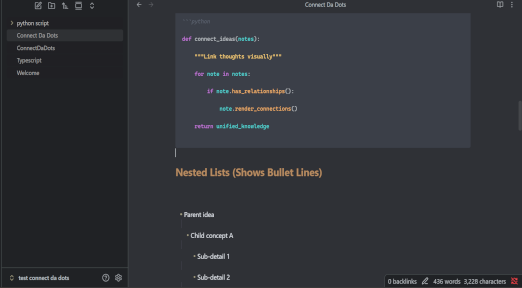
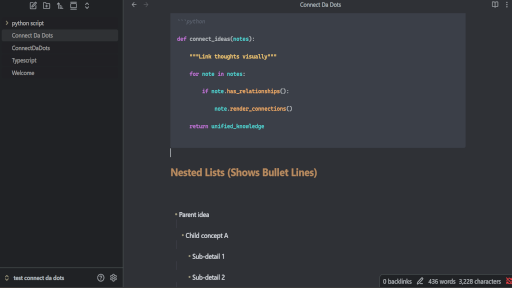
chore: prepare theme for community resubmission

diff --git a/theme.css b/theme.css
@@ -212,7 +212,7 @@ settings:
   --background-modifier-border: #92a1a17a;
   --blockquote-border: #6a7070;
   --text-accent: #ff9640ba;
-  --interactive-accent-rgb: #fe8019;
+  --interactive-accent-rgb: 254, 128, 25;
   --text-selection: #406488;
   
   /* 🔥 CUSTOM CODE BLOCK COLORS */
@@ -227,7 +227,7 @@ settings:
   --code-comment: #5c6370;
   --code-builtin: #ffb86c;
   --bullet-color: #bbc0c5;
-  --bullet-line-color: var(--bullet-line-color, rgba(100, 100, 120, 0.5));
+  --bullet-line-color: rgba(100, 100, 120, 0.5);
   /* 🔥 INLINE CODE VARIABLES */
   --inline-code-text-color: #e5dcba;
   --inline-code-bg-color: #44474E;
@@ -561,7 +561,7 @@ a:hover, .internal-link:hover {
 /* ===== CODE BLOCKS – LET OBSIDIAN HANDLE IT WITH OUR COLORS ===== */
 .markdown-rendered pre,
 .markdown-preview-view pre {
-  background-color: var(--code-background) !important;
+  background-color: var(--code-bg) !important;
   border: 1px solid var(--code-border) !important;
   border-radius: 8px !important;
   padding: 12px 16px !important;
@@ -569,8 +569,8 @@ a:hover, .internal-link:hover {
 
 .markdown-rendered pre code,
 .markdown-preview-view pre code {
-  color: var(--code-normal) !important;
-  font-size: var(--code-size) !important;
+  color: var(--code-text) !important;
+  line-height: 1.5;
 }
 
 /* ===== TABLES & IMAGES ===== */

diff --git a/README.md b/README.md
@@ -1,6 +1,8 @@
 # 🔗 Connect Da Dots — Dark Obsidian Theme
 
 > **See your notes connect.** Vertical bullet relationship lines. Glowing inline code. A dark theme that makes outlines actually readable.
+>
+> **Submission status:** resubmission prep is in progress for the Obsidian Community Themes directory.
 
 <div align="center">
   <img src="images/connectdadots.jpg" alt="Connect Da Dots Theme Banner" width="100%">
@@ -37,10 +39,10 @@ Most Obsidian themes treat lists as flat text. **Connect Da Dots** draws **verti
 
 ## 📦 Installation
 
-### From Obsidian Community Themes (coming soon)
+### From Obsidian Community Themes (after approval)
 1. Go to `Settings → Appearance → Themes → Manage`
 2. Search **"Connect Da Dots"**
-3. Click **Use** – done.
+3. Click **Use**.
 
 ### Manual install (for now)
 1. Download `theme.css` and `manifest.json`
@@ -65,7 +67,7 @@ Go to `Settings → Theme → Connect Da Dots` to tweak:
 | **Inline Code Colors** | Text + background, editor vs reading mode |
 | **Hover Glow** | Color + intensity (from subtle to WOW) |
 
-No `!important` hacking required. All variables are built into the theme.
+Most common colors and effects are exposed through built-in theme settings, so you can customize the theme without editing CSS.
 
 ---
 
@@ -116,7 +118,7 @@ I chose to ship this as a **v1.0** because it’s already useful for 90% of use 
 Found a bug? Open an issue.  
 Want to add light mode or better 4-level lines? PRs are welcome.
 
-**Repo:** [github.com/Kevork-Nexacrawl-dev/obsidian-connect-da-dots](https://github.com/Kevork-Nexacrawl-dev/obsidian-connect-da-dots)
+**Repo:** [github.com/Kevork-Nexacrawl-dev/obsidian-theme-Connect-Da-Dots](https://github.com/Kevork-Nexacrawl-dev/obsidian-theme-Connect-Da-Dots)
 
 ---
 

diff --git a/SUBMISSION.md b/SUBMISSION.md
@@ -1,0 +1,37 @@
+# Connect Da Dots — Obsidian Theme Submission
+
+Use this when opening the community theme PR in `obsidianmd/obsidian-releases`.
+
+## `community-css-themes.json` entry
+
+```json
+{
+  "name": "Connect Da Dots",
+  "author": "Kevork @ Nexacrawl",
+  "repo": "Kevork-Nexacrawl-dev/obsidian-theme-Connect-Da-Dots",
+  "screenshot": "Screenshot.png",
+  "modes": ["dark"]
+}
+```
+
+## Pre-submit checklist
+
+- [x] `README.md` is present in the repo root
+- [x] `LICENSE` is present in the repo root
+- [x] `manifest.json` is present in the repo root
+- [x] `theme.css` is present in the repo root
+- [x] `Screenshot.png` is present in the repo root
+- [x] Screenshot is `512x288` (16:9 recommended)
+- [x] Repo slug matches the live GitHub repository
+- [x] Theme is marked as dark-only
+
+## PR title
+
+```text
+Add Connect Da Dots theme
+```
+
+## Notes
+
+- If review feedback comes in, update this same repo and respond on the same PR thread.
+- Keep the screenshot path and repo slug exactly aligned with the repo contents.
